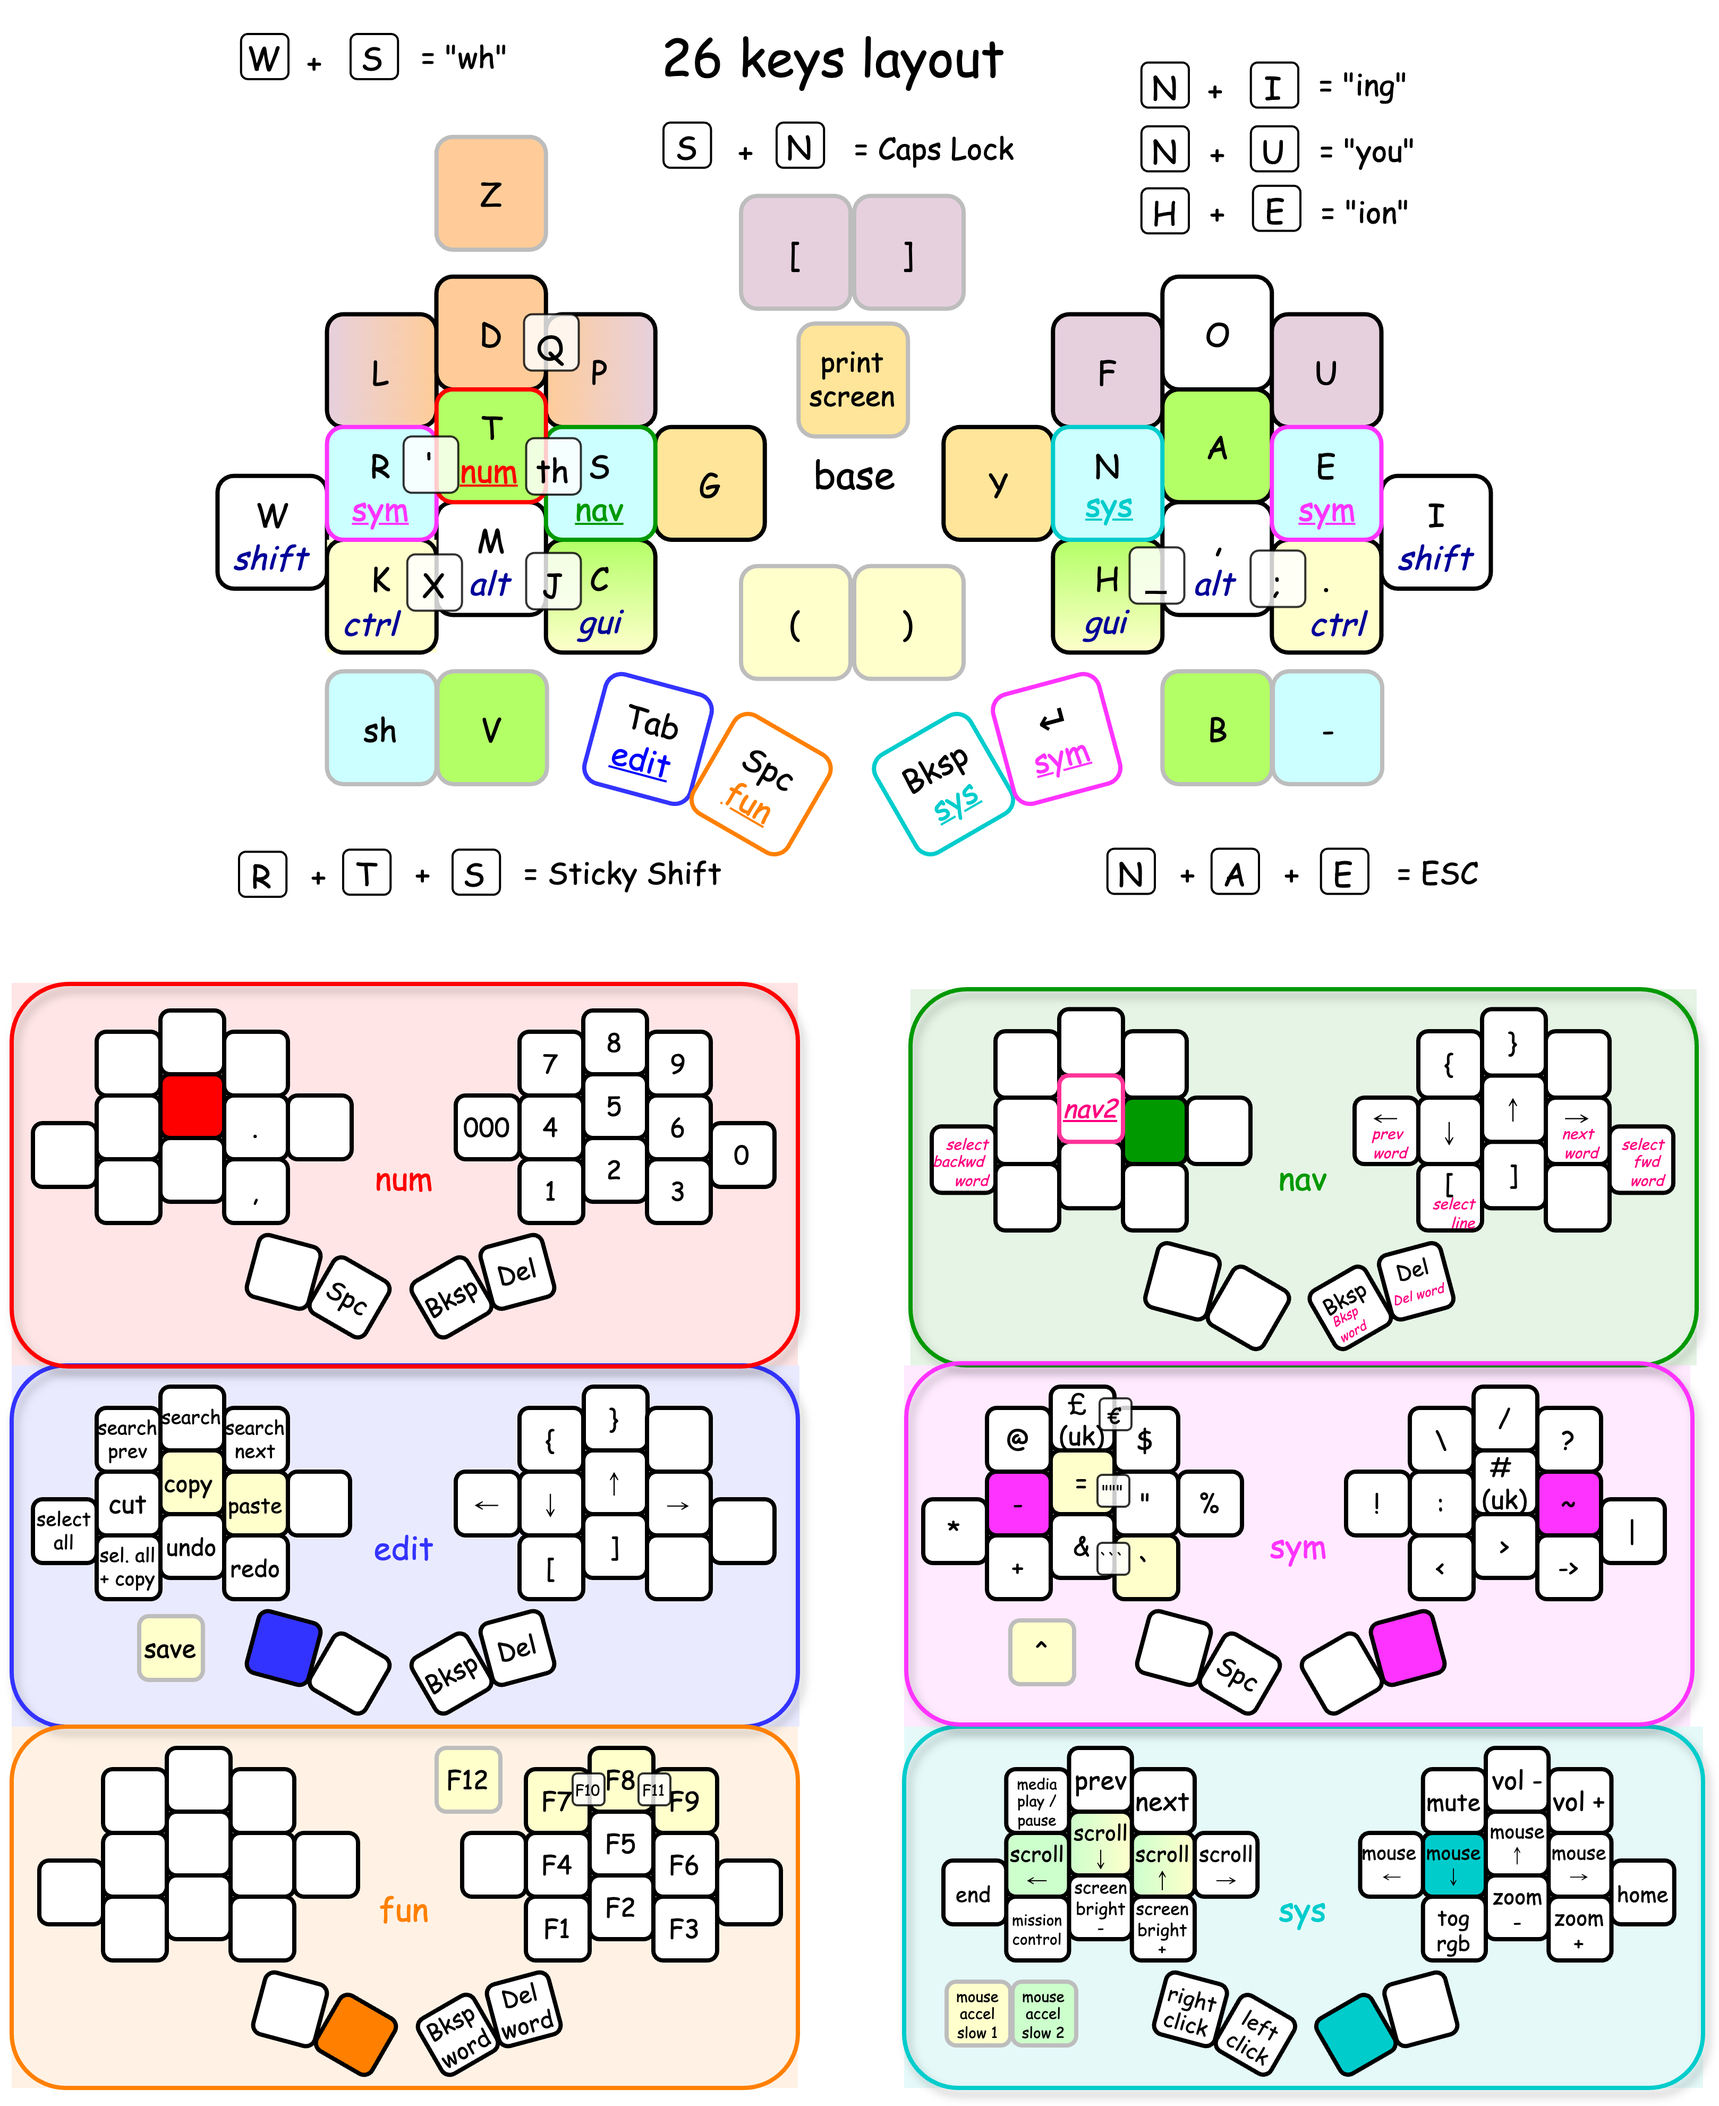
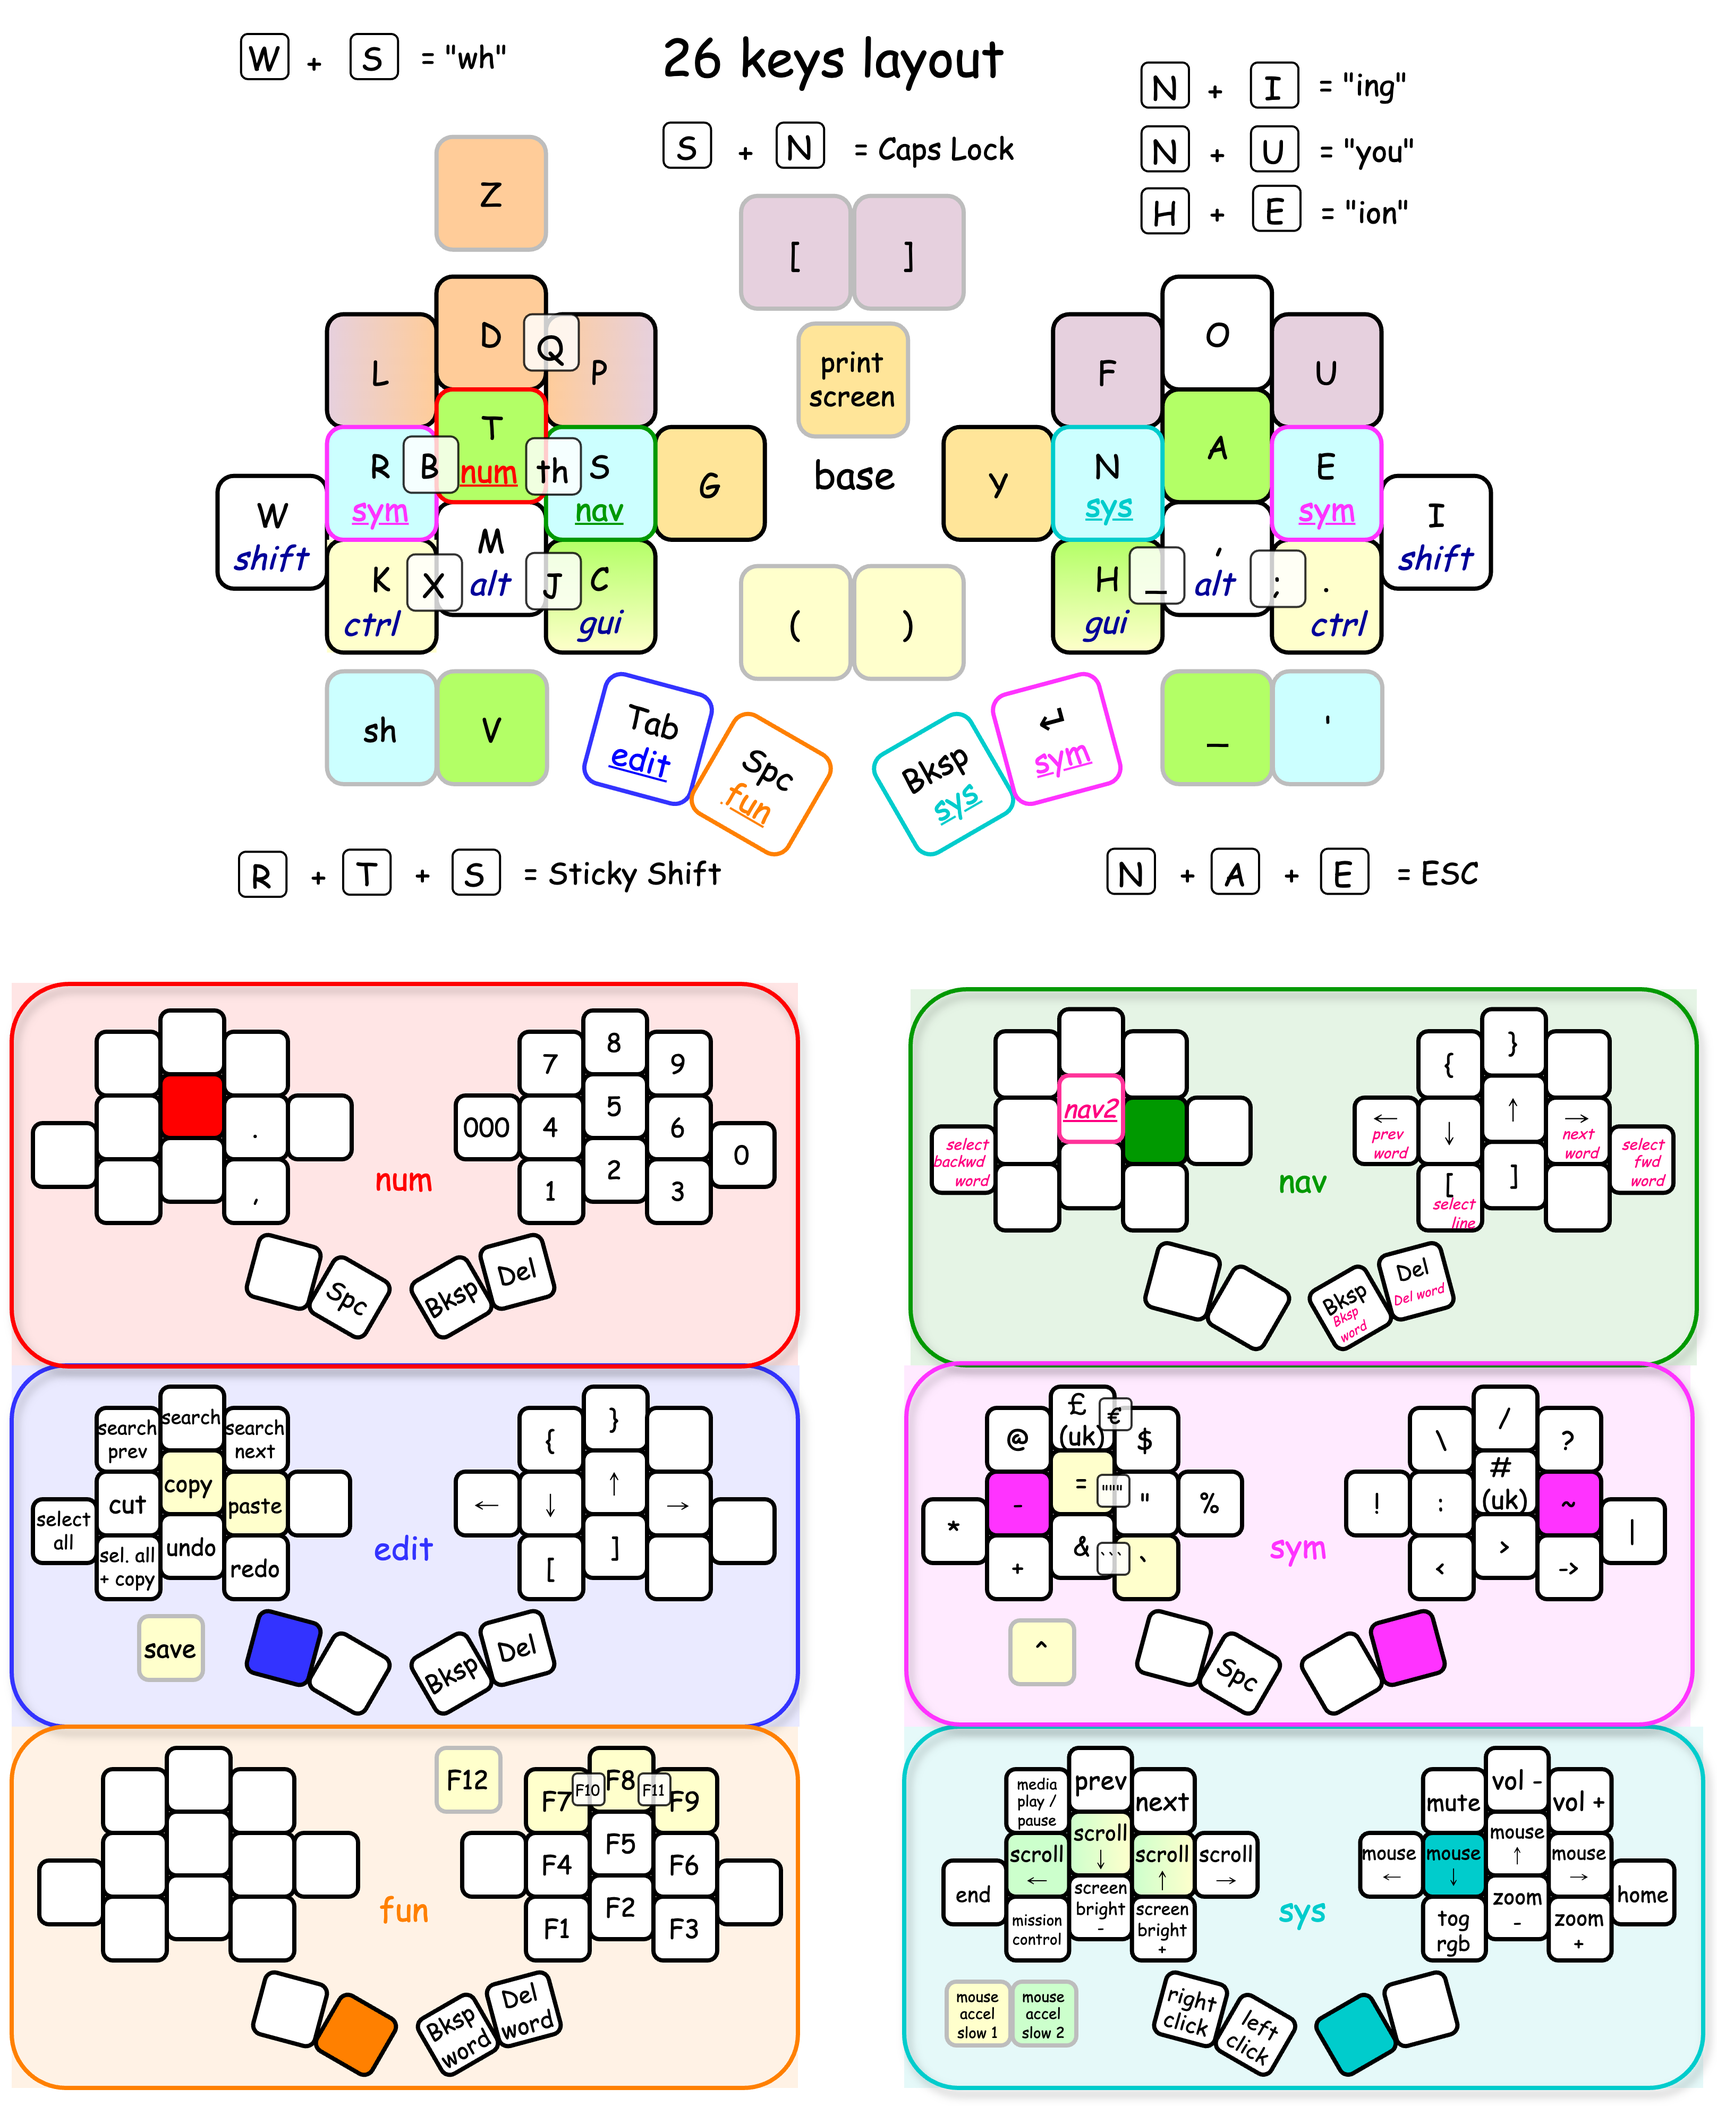
Update keymap once again

diff --git a/smallwat3r.c b/smallwat3r.c
@@ -64,9 +64,9 @@ enum custom_keycodes {
 
 // base
 #define  ___BASE_L1___  CK_1,   CK_2,   CK_3
-#define  ___BASE_L1_30  KC_W,   CK_1,   CK_2,   CK_3,   KC_Q
+#define  ___BASE_L1_30  KC_Q,   CK_1,   CK_2,   CK_3,   KC_J
 #define  ___BASE_R1___  CK_14,  CK_15,  CK_16
-#define  ___BASE_R1_30  KC_J,   CK_14,  CK_15,  CK_16,  KC_QUOT
+#define  ___BASE_R1_30  KC_B,   CK_14,  CK_15,  CK_16,  KC_QUOT
 #define  ___BASE_L2___  CK_4,   CK_5,   CK_6,   CK_7,   CK_8
 #define  ___BASE_R2___  CK_17,  CK_18,  CK_19,  CK_20,  CK_21
 #define  ___BASE_L3___  CK_9,   CK_10,  CK_11
@@ -178,12 +178,9 @@ uint16_t get_combo_term(uint16_t combo_index, combo_t *combo) {
         case C_LB_SH:
         case C_LB_WH:
         case C_RB_UNDS:
-        case C_RS_CIRC:
+        case C_RB_DASH:
+        case C_LB_B:
             return 50;
-        #ifndef KEY_COUNT_30
-        case C_LB_QUOT:
-            return 50;
-        #endif
         case C_LB_LBRC:
             return 20;
     }
